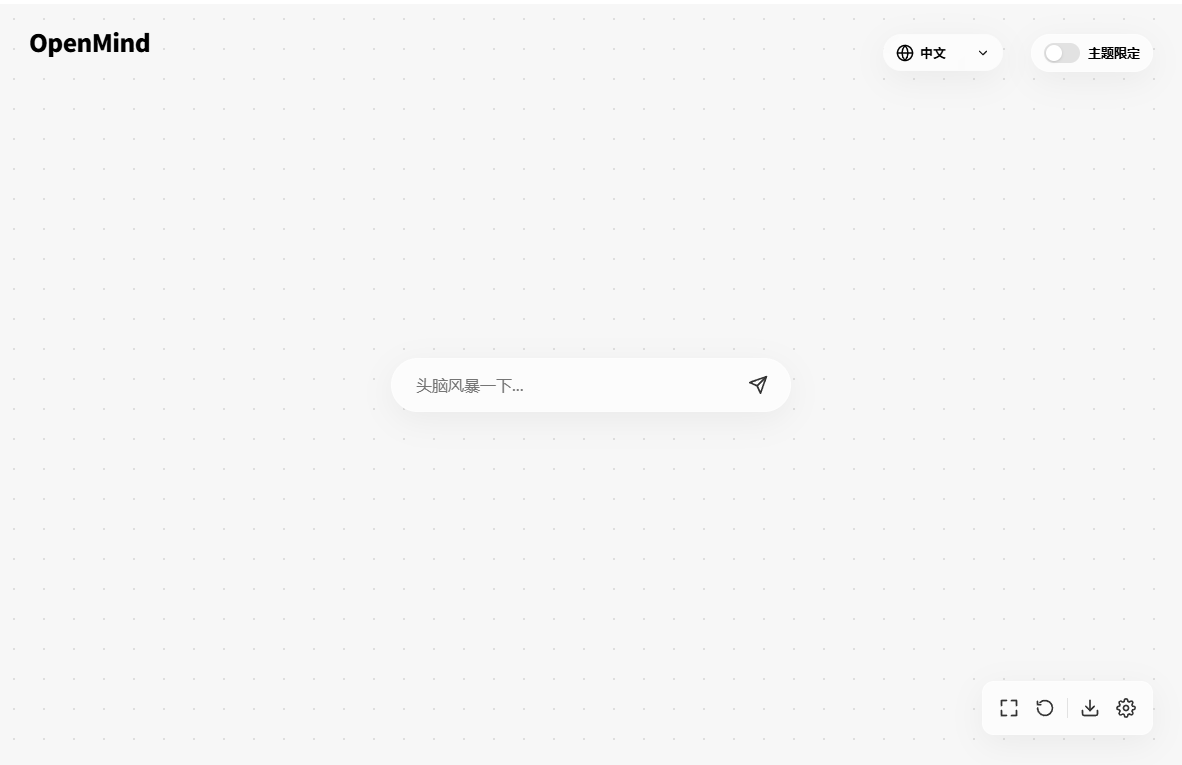
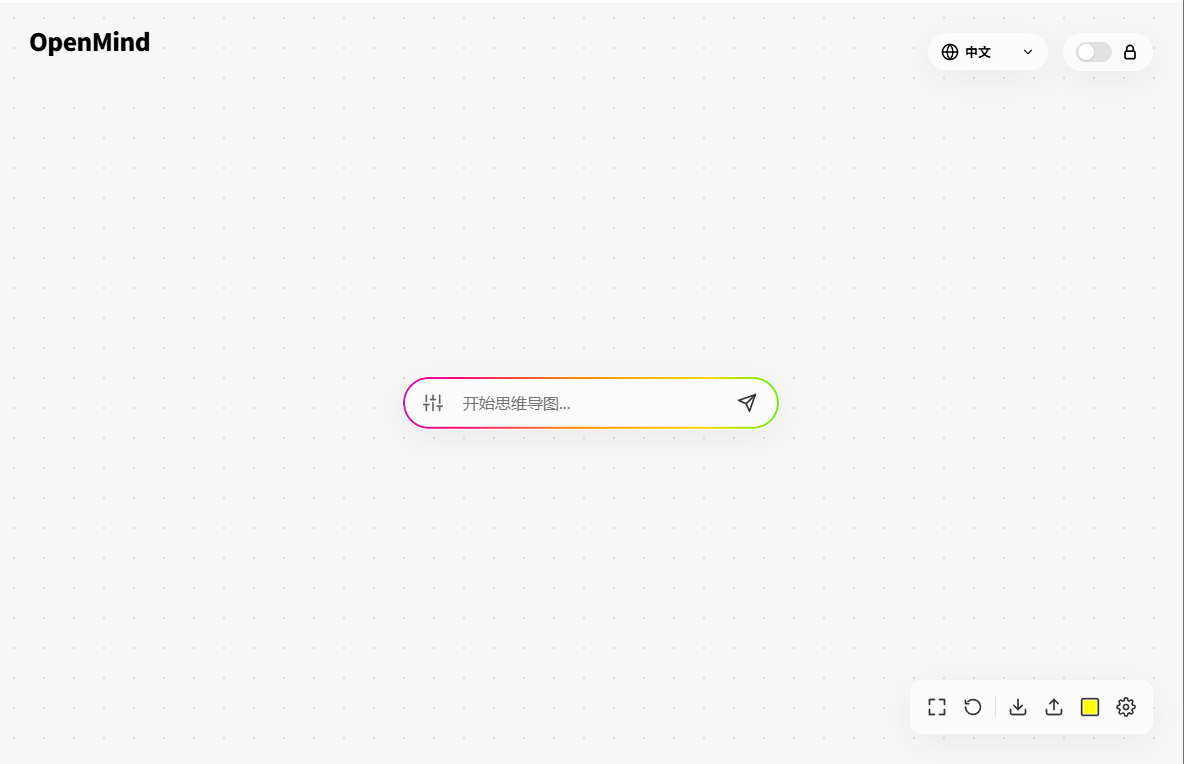
feat: update readme.md

diff --git a/src/components/UI/InputBar.vue b/src/components/UI/InputBar.vue
@@ -173,12 +173,8 @@ defineExpose({
 <template>
   <div class="input-container" :class="{ 'at-bottom': hasStarted }">
     <div class="input-wrapper glass">
-      <!-- Mode Selector Icon (Only visible if not started) -->
-      <div
-        v-if="!hasStarted"
-        class="mode-selector-wrapper"
-        ref="modeSelectorRef"
-      >
+      <!-- Mode Selector Icon (Only visible if not started)  v-if="!hasStarted"-->
+      <div class="mode-selector-wrapper" ref="modeSelectorRef">
         <button
           class="mode-btn"
           @click="toggleModeMenu"
